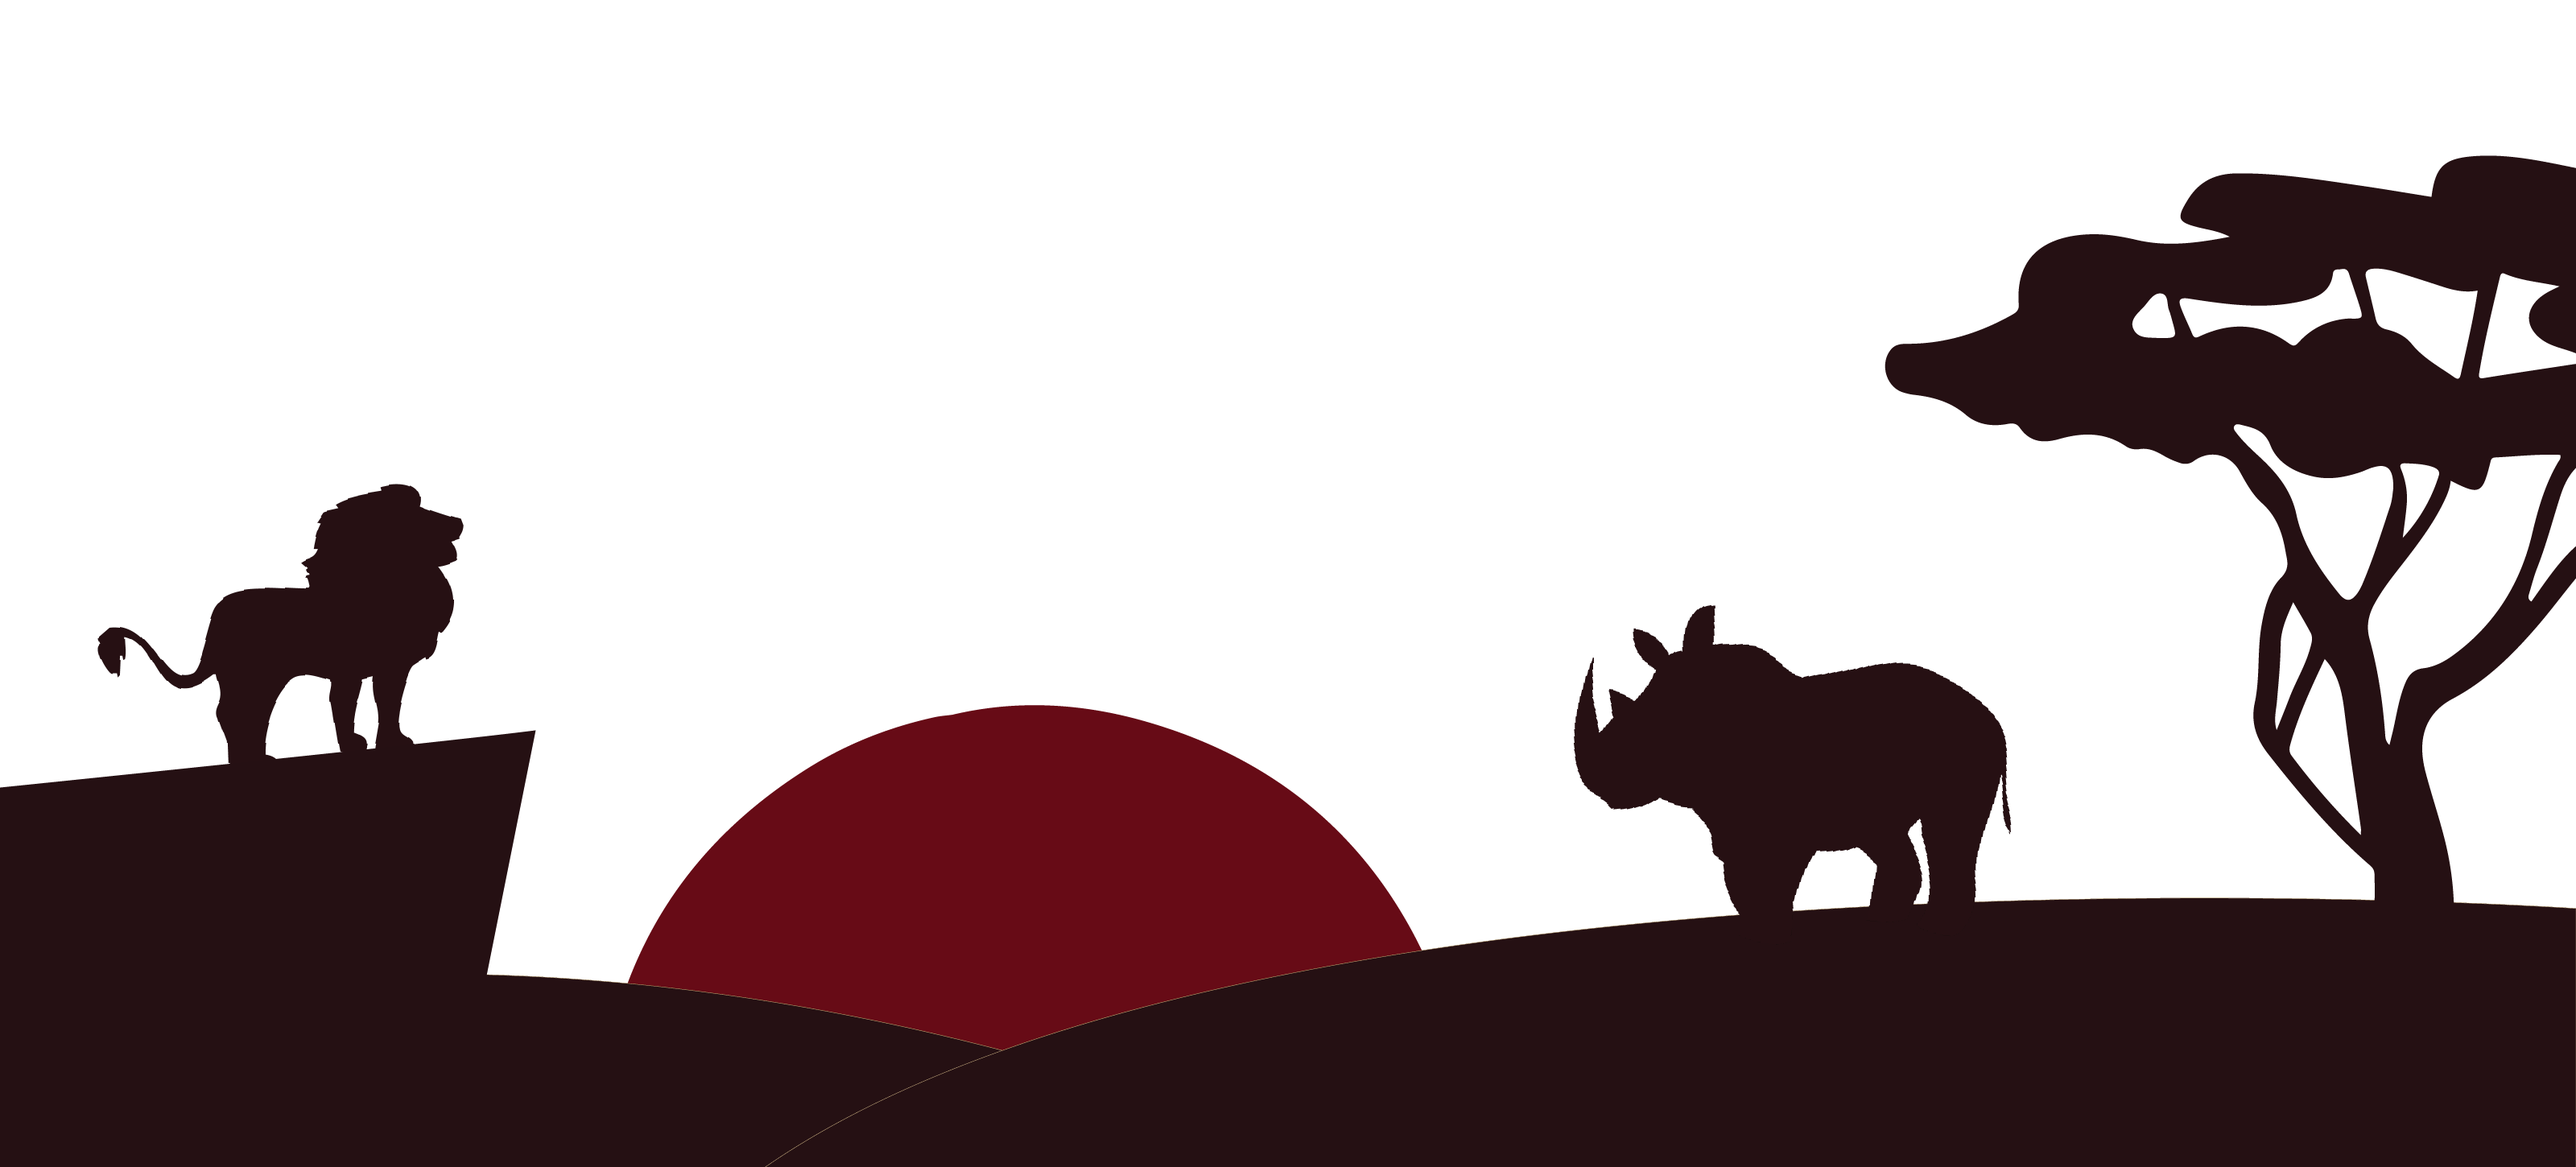
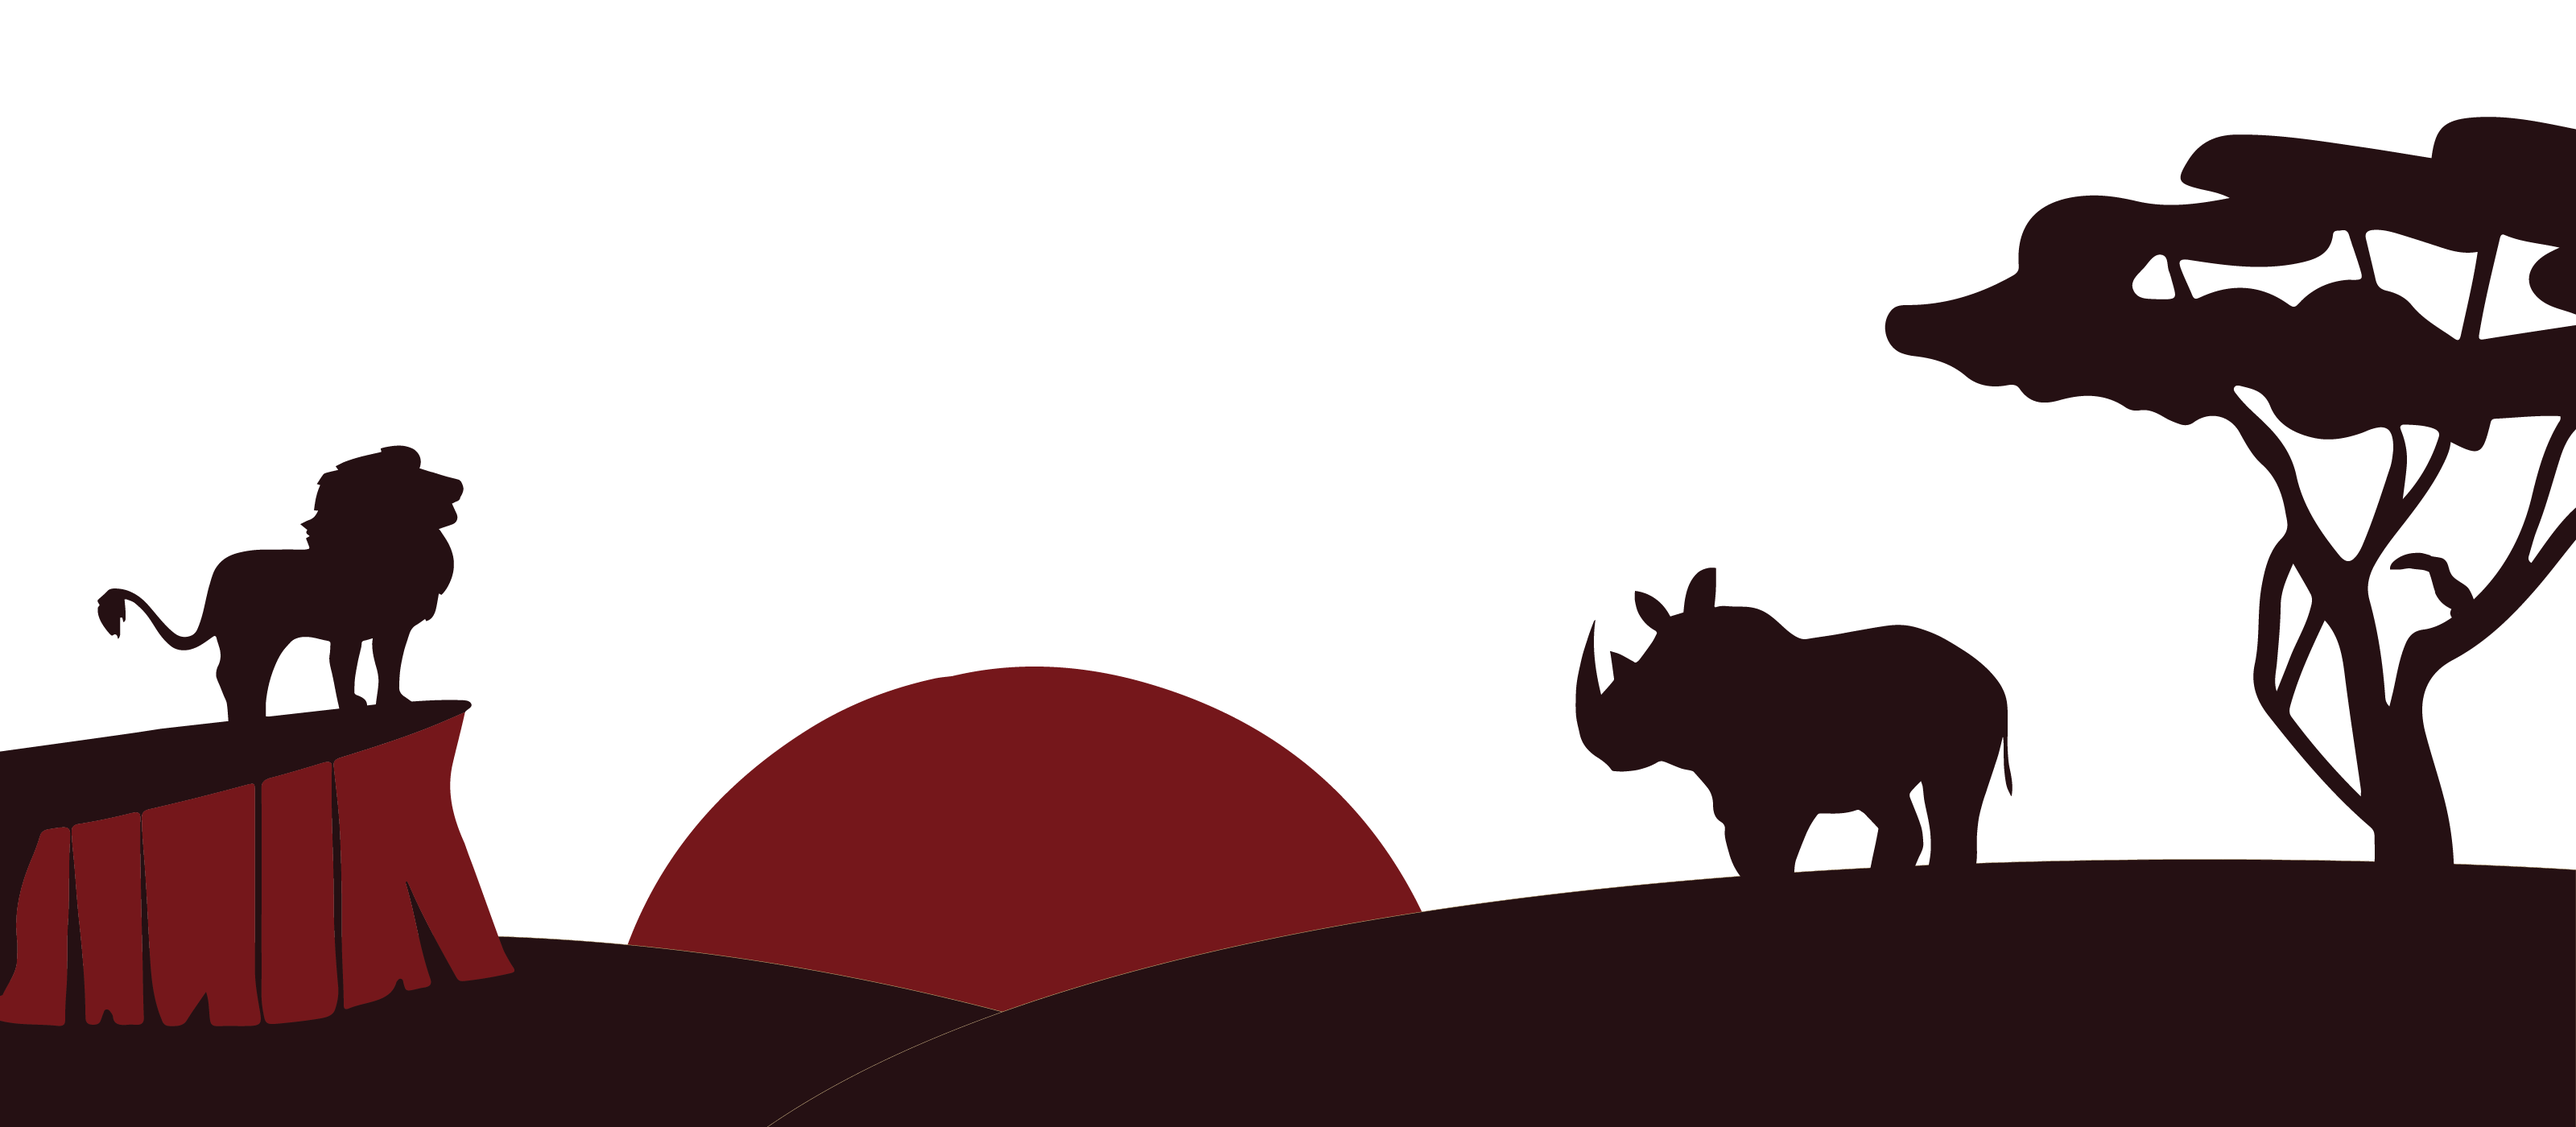
Draft 8

diff --git a/index.html b/index.html
@@ -10,7 +10,7 @@
 
 		<meta name="viewport" content="width=device-width, initial-scale=1">
 
-		<style> h1{color: white;font-family: "TheBoldFont";font-size: 60px;display: block;padding: 0 10%;text-align: left;}</style>
+		<style> h1{color: white;font-family: "TheBoldFont";font-size: 60px;display: block;padding: 0 10%;}</style>
 	</head>
 
 	<!-- ///////////////////// NAVBAR START //////////////////////// -->
@@ -65,49 +65,44 @@
 	<div class="background">
 	<!-- ///////////////////// SECTION 1 BEGIN  //////////////////////// -->
 	<div class="section1 body grad">
-		<div class="D col-lg-6 col-md-6 col-sm-12 col-xs-12">
-			Insert Something Decorative 
-		</div>
-		<div class="H R col-lg-6 col-md-6 col-sm-12 col-xs-12">
-			<div class="R1 s">
+		<div class="col-lg-6 col-md-6 col-sm-12 col-xs-12">
+			<div class="L1 s">
 				<h1>
 					LEARN
 				</h1>
 				<div class="hover hover1">
-					Offering dozens of informational and interactive workshops, Fall Training Conference provides limitless opportunities to gain knowledge in various topics. Whether you're hosting a workshop to share your expertise or attending one for the first time to learn something new, FTC gives members the opportunity to share new perspectives and ideas.
+					Offering dozens of informational and interactive workshops, Fall Training Conference provides limitless opportunities to gain knowledge in a wide array of topics like leadership, professionalism, and, of course, all things Circle K! Whether you're hosting a workshop to share your expertise or attending one for the first time, FTC will give you the opportunity to share and experience new perspectives and ideas.
 				</div>
 			</div>
-			
-			
+		</div>
+		<div class="R R1 col-lg-6 col-md-6 col-sm-12 col-xs-12">
+			<img class="icon" src="Assets/Icons/Learn.png" alt="">
 		</div>
 	</div>
 	<!-- ///////////////////// SECTION 1 END  //////////////////////// -->
 
 	<!-- ///////////////////// SECTION 2 BEGIN  //////////////////////// -->
 	<div class="section2 body grad">
-		<div class="H L col-lg-6 col-md-6 col-sm-12 col-xs-12">
-			<div class="L2 s">
-				<h1>
+		<div class="L L2 col-lg-6 col-md-6 col-sm-12 col-xs-12">
+			<img class="network icon" src="Assets/Icons/Network.png" alt="">
+		</div>
+		<div class="col-lg-6 col-md-6 col-sm-12 col-xs-12">
+			<div class="R2 s">
+				<h1 class="network moveLeft">
 					NETWORK
 				</h1> 
-				<div class="hover hover2">
-					As one of our district's premier events, Fall Training Conference provides countless opportunities to meet fellow Circle K members from all over California, Nevada, and Hawaii! With several hundred attendees and a rich, established schedule of activities, FTC is sure to bring you together with others just like you. Make new friends, establish new bonds, and expand your Circle K network!
+				<div class="hover hover2 moveLeft">
+					As one of our district's premier events, Fall Training Conference provides countless opportunities to meet fellow Circle K members from all over California, Nevada, and Hawaii! With several hundred attendees and a rich, established schedule of activities, FTC is sure to connect with others just like you. Make new friends, establish new bonds, and expand your Circle K network!
 				</div>
 			</div>
-		</div>
-		<div class="D col-lg-6 col-md-6 col-sm-12 col-xs-12">
-			Insert Something Decorative
 		</div>
 	</div>
 	<!-- ///////////////////// SECTION 2 END  //////////////////////// -->
 
 	<!-- ///////////////////// SECTION 3 BEGIN  //////////////////////// -->
 	<div class="section3 body grad">
-		<div class="D col-lg-6 col-md-6 col-sm-12 col-xs-12">
-			Insert Something Decorative
-		</div>
-		<div class="H R col-lg-6 col-md-6 col-sm-12 col-xs-12">
-			<div class="R3 s">
+		<div class="col-lg-6 col-md-6 col-sm-12 col-xs-12">
+			<div class="L3 s">
 				<h1>
 					WELCOME
 				</h1>
@@ -116,23 +111,26 @@
 				</div>
 			</div>
 		</div>
+		<div class="R R3 col-lg-6 col-md-6 col-sm-12 col-xs-12">
+			<img class="icon" src="Assets/Icons/Welcome.png" alt="">
+		</div>
 	</div>
 	<!-- ///////////////////// SECTION 3 END  //////////////////////// -->
 	
 	<!-- ///////////////////// SECTION 4 BEGIN  //////////////////////// -->
 	<div class="section4 body grad">
-		<div class="H L col-lg-6 col-md-6 col-sm-12 col-xs-12">
-			<div class="L4 s">
-				<h1>
+		<div class="L L4 col-lg-6 col-md-6 col-sm-12 col-xs-12">
+			<img class="icon" src="Assets/Icons/Enjoy.png" alt="">
+		</div>
+		<div class="col-lg-6 col-md-6 col-sm-12 col-xs-12">
+			<div class="R4 s">
+				<h1 class="moveLeft">
 					ENJOY
 				</h1>
-				<div class="hover hover4">
+				<div class="hover hover4 moveLeft">
 					Above all, Fall Training Conference is a time for you to enjoy yourself and create long-lasting memories with your CKI friends! With close team activities, amazing campfire skits, and spirited general sessions, FTC really is a Circle K experience for all to treasure.
 				</div>
 			</div>
-		</div>
-		<div class="D col-lg-6 col-md-6 col-sm-12 col-xs-12">
-			Insert Something Decorative
 		</div>
 	</div>
 	<!-- ///////////////////// SECTION 4 END  //////////////////////// -->

diff --git a/main.css b/main.css
@@ -125,43 +125,28 @@ img.cnh {
 
 
 /*////////////////// ALL SECTIONS BEGIN ////////////////////////////////*/
-div.H{
-	text-align: center;
-	height: 100%;
-	display:flex;
-    align-items: center;
-    justify-content: center;
-}
-
-div.D{
-	height: 100%;
-	text-align: center;
-	display:flex;
-    align-items: center;
-    justify-content: center;
-    font-family: "CenturyGothic";
-    color: white;
-}
-
 div.R{
-	padding: 0 10% 0 0;
+	padding: 0 3% 0 0;
 }
 
 div.L{
-	padding: 0 0 0 10%;
+	padding: 0 0 0 3%;
 }
 
 div.s{
 	width: 100%;
+	height: 300px;
+	padding-top: 50px;
 }
 
 div.hover{
-	text-align: left;
 	display: none;
+	text-align: left;
 	font-size: 15px;
 	color: white;
 	font-family: "CenturyGothic";
 	margin: 0 10%;
+	padding-left: 5%;
 }
 
 h1{
@@ -176,6 +161,17 @@ div.grad{
 	padding: 200px 0;
 }
 
+img.icon{
+	width: 300px;
+}
+
+h1.moveLeft{
+	margin-right: 5%;
+}
+
+div.moveLeft{
+	margin: 0 15% 0 5%;
+}
 /*////////////////// ALL SECTIONS END ////////////////////////////////*/
 
 /*////////////////// SECTION -1 BEGIN ////////////////////////////////*/
@@ -190,7 +186,7 @@ div.section-1{
 
 
 /*////////////////// SECTION 0 BEGIN ////////////////////////////////*/
-div.section0{padding: 0;margin: 0;}
+div.section0{padding: 0;margin: -1px 0 0 0}
 div.left {margin: 0; padding: 0;}
 div.right{margin: 0; padding: 0;}
 
@@ -212,36 +208,43 @@ img.right{
 
 div.background{
 	margin: -2px 0 0 0; padding: 0;
-    background: red; /* For browsers that do not support gradients */
-    background: -webkit-linear-gradient(#4d0000, #72191b, #992600, #cc6032, #eb8d3a, #ffcc66, #ffeb99, white); /* For Safari 5.1 to 6.0 */
-    background: -o-linear-gradient(#4d0000, #72191b, #992600, #cc6032, #eb8d3a, #ffcc66, #ffeb99, white); /* For Opera 11.1 to 12.0 */
-    background: -moz-linear-gradient(#4d0000, #72191b, #992600, #cc6032, #eb8d3a, #ffcc66, #ffeb99, white); /* For Firefox 3.6 to 15 */
+    background: #eb8d3a; /* For browsers that do not support gradients */
+    background: -webkit-linear-gradient(#4d0000, #72191b, #992600, #cc6032, #eb8d3a, #ffcc66, #ffeb99); /* For Safari 5.1 to 6.0 */
+    background: -o-linear-gradient(#4d0000, #72191b, #992600, #cc6032, #eb8d3a, #ffcc66, #ffeb99); /* For Opera 11.1 to 12.0 */
+    background: -moz-linear-gradient(#4d0000, #72191b, #992600, #cc6032, #eb8d3a, #ffcc66, #ffeb99); /* For Firefox 3.6 to 15 */
     background: linear-gradient(#4d0000, #72191b, #992600, #cc6032, #eb8d3a, #ffcc66, #ffeb99); /* Standard syntax */
 }
 
 /*////////////////// SECTION 1 BEGIN ////////////////////////////////*/
-div.R1:hover div.hover1 {
+div.L1:hover div.hover1 {
 	display: block;
 }
 
 /*////////////////// SECTION 1 END ////////////////////////////////*/
 
 /*////////////////// SECTION 2 BEGIN ////////////////////////////////*/
-div.L2:hover div.hover2 {
+div.R2:hover div.hover2 {
 	display: block;
 }
 
+img.network{
+	width: 350px;
+}
+
+h1.network{
+	margin-right: 10%;
+}
 /*////////////////// SECTION 2 END ////////////////////////////////*/
 
 /*////////////////// SECTION 3 BEGIN ////////////////////////////////*/
-div.R3:hover div.hover3 {
+div.L3:hover div.hover3 {
 	display: block;
 }
 
 /*////////////////// SECTION 3 END ////////////////////////////////*/
 
 /*////////////////// SECTION 4 BEGIN ////////////////////////////////*/
-div.L4:hover div.hover4 {
+div.R4:hover div.hover4 {
 	display: block;
 }
 

diff --git a/FAQ.css b/FAQ.css
@@ -2,20 +2,22 @@
 #4d0000, #72191b, #cc6032, #eb8d3a, #fde079
 */
 
+*{
+	color: white;
+}
 
 div.background {
-	padding: 30px 0 200px 0;
-    background: red; /* For browsers that do not support gradients */
-    background: -webkit-linear-gradient(#72191b, #cc6032, #eb8d3a, #ffe066, white); /* For Safari 5.1 to 6.0 */
-    background: -o-linear-gradient(#72191b, #cc6032, #eb8d3a, #ffe066, white); /* For Opera 11.1 to 12.0 */
-    background: -moz-linear-gradient(#72191b, #cc6032, #eb8d3a, #ffe066, white); /* For Firefox 3.6 to 15 */
-    background: linear-gradient(#72191b, #cc6032, #eb8d3a, #ffe066, white); /* Standard syntax */
+	padding-top: 30px;
+    background: #eb8d3a; /* For browsers that do not support gradients */
+    background: -webkit-linear-gradient(#72191b, #cc6032, #eb8d3a, #ffe066); /* For Safari 5.1 to 6.0 */
+    background: -o-linear-gradient(#72191b, #cc6032, #eb8d3a, #ffe066); /* For Opera 11.1 to 12.0 */
+    background: -moz-linear-gradient(#72191b, #cc6032, #eb8d3a, #ffe066); /* For Firefox 3.6 to 15 */
+    background: linear-gradient(#72191b, #cc6032, #eb8d3a, #ffe066); /* Standard syntax */
 }
 
 div.attendee{
 	display: block;
-	margin: 0 15%;
-	background: white;
+	margin: 0 10%;
 	padding: 20px 30px 1px 30px;
 }
 
@@ -33,9 +35,8 @@ p{
 
 div.FAQ{
 	display: block;
-	margin: 70px 15% 0 15%;
+	margin: 70px 8% 0 8%;
 	padding: 20px 40px;
-	background: white;
 	text-align: left;
 }
 
@@ -43,9 +44,14 @@ h1.FAQ{
 	margin-bottom: 30px;
 }
 
+a.OOR{
+	color: #8ec8ff;
+}
+
 h1{
 	padding: 0;
 	text-align: center;
+	color: white;
 }
 
 h2{
@@ -53,10 +59,4 @@ h2{
 	padding: 0;
 	margin: 0;
 	font-size: 20px;
-}
-
-
-
-div.bottom{
-	padding-top: 200px
 }

diff --git a/documents.css b/documents.css
@@ -1,8 +1,7 @@
 div.background {
-	padding: 30px 0 200px 0;
-    background: red; /* For browsers that do not support gradients */
-    background: -webkit-linear-gradient(#72191b, #cc6032, #eb8d3a, #ffe066, white); /* For Safari 5.1 to 6.0 */
-    background: -o-linear-gradient(#72191b, #cc6032, #eb8d3a, #ffe066, white); /* For Opera 11.1 to 12.0 */
-    background: -moz-linear-gradient(#72191b, #cc6032, #eb8d3a, #ffe066, white); /* For Firefox 3.6 to 15 */
-    background: linear-gradient(#72191b, #cc6032, #eb8d3a, #ffe066, white); /* Standard syntax */
+    background: #eb8d3a; /* For browsers that do not support gradients */
+    background: -webkit-linear-gradient(#72191b, #cc6032, #eb8d3a, #ffe066); /* For Safari 5.1 to 6.0 */
+    background: -o-linear-gradient(#72191b, #cc6032, #eb8d3a, #ffe066); /* For Opera 11.1 to 12.0 */
+    background: -moz-linear-gradient(#72191b, #cc6032, #eb8d3a, #ffe066); /* For Firefox 3.6 to 15 */
+    background: linear-gradient(#72191b, #cc6032, #eb8d3a, #ffe066); /* Standard syntax */
 }

diff --git a/announcements.css b/announcements.css
@@ -1,8 +1,9 @@
+
+
 div.background {
-	height: 800px;
-    background: red; /* For browsers that do not support gradients */
-    background: -webkit-linear-gradient(#72191b, #cc6032, #eb8d3a, #ffe066, white); /* For Safari 5.1 to 6.0 */
-    background: -o-linear-gradient(#72191b, #cc6032, #eb8d3a, #ffe066, white); /* For Opera 11.1 to 12.0 */
-    background: -moz-linear-gradient(#72191b, #cc6032, #eb8d3a, #ffe066, white); /* For Firefox 3.6 to 15 */
-    background: linear-gradient(#72191b, #cc6032, #eb8d3a, #ffe066, white); /* Standard syntax */
+    background: #eb8d3a; /* For browsers that do not support gradients */
+    background: -webkit-linear-gradient(#72191b, #cc6032, #eb8d3a, #ffe066); /* For Safari 5.1 to 6.0 */
+    background: -o-linear-gradient(#72191b, #cc6032, #eb8d3a, #ffe066); /* For Opera 11.1 to 12.0 */
+    background: -moz-linear-gradient(#72191b, #cc6032, #eb8d3a, #ffe066); /* For Firefox 3.6 to 15 */
+    background: linear-gradient(#72191b, #cc6032, #eb8d3a, #ffe066); /* Standard syntax */
 }

diff --git a/FAQ.html b/FAQ.html
@@ -62,7 +62,7 @@
 						WHERE IS FTC?
 					</h2>
 					<p>
-						<a href="https://www.google.com/maps/place/Old+Oak+Ranch+Conference+Center/@38.0505547,-120.3058027,14z/data=!4m5!3m4!1s0x8090c857a4edce9b:0xa5a9f8cade9b8664!8m2!3d38.051932!4d-120.310122">Old Oak Ranch Conference Center</a>
+						<a class="OOR" href="https://www.google.com/maps/place/Old+Oak+Ranch+Conference+Center/@38.0505547,-120.3058027,14z/data=!4m5!3m4!1s0x8090c857a4edce9b:0xa5a9f8cade9b8664!8m2!3d38.051932!4d-120.310122">Old Oak Ranch Conference Center</a>
 						<br>
 						15250 Old Oak Ranch Rd, Sonora, CA 95370
 					</p>
@@ -162,6 +162,7 @@
 				
 				
 			</div>
-		<div class="bottom">maybe a landscape down here just for decoration?</div>
-		</div>
+
+
+			<div class="bottom"><img class="LS" src="Assets/Landscapes/4.png" alt=""></div>
 	</body>

diff --git a/documents.html b/documents.html
@@ -52,6 +52,8 @@
 	<div class="background">
 		<h1>applications</h1>
 		<h1>forms</h1>
+
+		<div class="bottom"><img class="LS" src="Assets/Landscapes/3.png" alt=""></div>
 	</div>
 		
 

diff --git a/announcements.html b/announcements.html
@@ -51,6 +51,8 @@
 	<body>
 	<div class="background">
 		<h1>Announcements</h1>
+
+		<div class="bottom"><img class="LS" src="Assets/Landscapes/2.png" alt=""></div>
 	</div>
 
 	</body>
